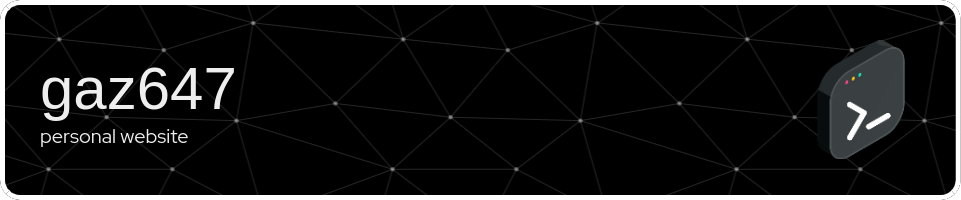
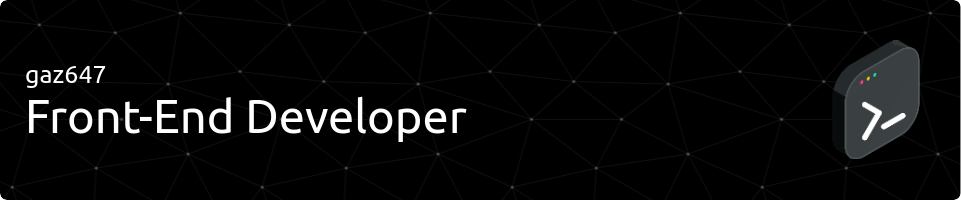
přidán readme header image

diff --git a/README.md b/README.md
@@ -1,144 +1,100 @@
-<link rel="stylesheet" type='text/css' href="https://cdn.jsdelivr.net/gh/devicons/devicon@latest/devicon.min.css" />
-<link rel="stylesheet" href="https://fonts.googleapis.com/css2?family=Material+Symbols+Outlined:opsz,wght,FILL,GRAD@24,400,0,0" />
+<img src="src/images/github-header-image.png">
 
-<div style="width: 100%; margin: 0 auto; background-color: black; border-radius: 10px; display: flex; flex-direction: column; justify-content: center;">
-    <!--  -->
-    <div style="padding: 3rem 3rem 3rem 1.5rem; border: solid 2px rgba(79, 79, 79, .3); border-radius: 20px; max-width: 80%; margin: 1.5rem">
-        <div style="font-size: 2rem;">gaz647</div>
-        <div style="font-size: 4rem;">Front-End Developer</div>
-        <div style="display: flex; flex-direction: row; align-items: center;">
-            <img src="src/images//heart.svg" style="display: inline; color: red; height: 2rem; width: 2rem; margin-right: .7rem;" />
-            <div style="font-size: 2rem">web apps</div>
-        </div>
-    </div>
-    <div style="display: flex; justify-content: center">
-        <a href="https://gaz647.net/" style="display:block; font-size: 1.5rem; padding: 3rem; cursor: pointer;">www.gaz647.net</a>
-        <a href="mailto:info@gaz647.net?subject=Message%20via%20profile%20on%20Github" style="display:block; font-size: 1.5rem; padding: 3rem; cursor: pointer;">info@gaz647.net</a>
-    </div>
-    <!--  -->
-    <div style="width: 95%; height: 1px; background-color: rgba(79, 79, 79, .3); margin: 1.5rem auto "></div>
-    <!--  -->
-    <div style="display:flex; justify-content: center; flex-wrap: wrap;  padding: 1rem;">
-        <img alt="HTML5" width="50px" style="margin: .5rem" src="https://cdn.jsdelivr.net/gh/devicons/devicon@latest/icons/html5/html5-original.svg" />
-        <img alt="CSS3" width="50px" style="margin: .5rem" src="https://cdn.jsdelivr.net/gh/devicons/devicon@latest/icons/css3/css3-original.svg" />
-        <img alt="TypeScript" width="50px" style="margin: .5rem" src="https://cdn.jsdelivr.net/gh/devicons/devicon@latest/icons/typescript/typescript-original.svg" />
-        <img alt="React" width="50px" style="margin: .5rem" src="https://cdn.jsdelivr.net/gh/devicons/devicon@latest/icons/react/react-original.svg" />
-        <img alt="React-Router" width="50px" style="margin: .5rem; background-color: rgb(220, 220, 220); border-radius: 5px; padding: 0 .4rem" src="https://cdn.jsdelivr.net/gh/devicons/devicon@latest/icons/reactrouter/reactrouter-original.svg" />
-        <img alt="Redux" width="50px" style="margin: .5rem" src="https://cdn.jsdelivr.net/gh/devicons/devicon@latest/icons/redux/redux-original.svg" />
-        <img alt="Firebase" width="50px" style="margin: .5rem" src="https://cdn.jsdelivr.net/gh/devicons/devicon@latest/icons/firebase/firebase-original.svg" />
-        <img alt="Vite" width="50px" style="margin: .5rem" src="https://cdn.jsdelivr.net/gh/devicons/devicon@latest/icons/vitejs/vitejs-original.svg" />
-        <img alt="Netlify" width="50px" style="margin: .5rem" src="https://cdn.jsdelivr.net/gh/devicons/devicon@latest/icons/netlify/netlify-original.svg" />
-        <img alt="Photoshop" width="50px" style="margin: .5rem" src="https://cdn.jsdelivr.net/gh/devicons/devicon@latest/icons/photoshop/photoshop-original.svg" />
-        <img alt="Linux" width="50px" style="margin: .5rem" src="https://cdn.jsdelivr.net/gh/devicons/devicon@latest/icons/linux/linux-original.svg" />
-        <img alt="Apple" width="35px" style="margin: .5rem; background-color: rgb(234, 220, 234); border-radius: 5px; padding: 0 .5rem" src="https://cdn.jsdelivr.net/gh/devicons/devicon@latest/icons/apple/apple-original.svg" />
-    </div>
-    <!--  -->
-    <div style="width: 95%; height: 1px; background-color: rgba(79, 79, 79, .3); margin: 1.5rem auto "></div>
-    <!--  -->
-    <!-- <a style="diplay: block; font-size: 2rem; padding: 5rem 0; cursor: pointer;" align="center">www.gaz647.net</a> -->
-    <!--  -->
-    <div style="padding: 3rem; font-size: 2.5rem">My projects:</div>
-    <!--  -->
-    <div style="display: flex; justify-content: center; align-items: center flex-wrap: wrap; margin-bottom: 5rem">
-        <img style="padding: 2rem; max-width: 200px;" src="src/images/mockup-emtruck-v2.0-w-800-px.png" />
-        <div style="display: flex; flex-direction: column; align-items: center; justify-content: space-evenly">
-            <div style="font-size: 1.5rem; font-weight: bold">emTruck v2.0</div>
-            <img style="width: 12rem" src="https://wakatime.com/badge/user/0042881c-6061-4165-a38d-5958bd6d02bc/project/1a883016-572f-4180-8581-73d1b8c50428.svg"/>
-            <div style="display: flex; align-items: center">
-                <img alt="React" width="25px" style="margin: .5rem" src="https://cdn.jsdelivr.net/gh/devicons/devicon@latest/icons/react/react-original.svg" />
-                <a href="https://github.com/gaz647/emTRUCK" target="_blank" style="margin-bottom: -4px; display: inline-block; text-decoration: none; color: whitesmoke; cursor: pointer">
-                    <i style="font-size: 25px; margin: .5rem" class="devicon-github-original"></i>
-                </a>
-                <a href="https://emtruck.net/" target="_blank" style="margin-bottom: -2px; text-decoration: none; color: whitesmoke; cursor: pointer;">
-                    <span style="font-size: 30px; margin: .5rem;" class="material-symbols-outlined">link</span>
-                </a>
-            </div>
-        </div>
-    </div>
-    <!--  -->
-    <div style="display: flex; justify-content: center; align-items: center flex-wrap: wrap; margin-bottom: 5rem">
-        <img style="padding: 2rem; max-width: 200px;" src="src/images/mockup-tatova-pila-w-800-px.png" />
-        <div style="display: flex; flex-direction: column; align-items: center; justify-content: space-evenly">
-            <div style="font-size: 1.5rem; font-weight: bold">Tátova Pila</div>
-            <img style="width: 12rem" src="https://wakatime.com/badge/user/0042881c-6061-4165-a38d-5958bd6d02bc/project/018c1b57-9fb4-4879-8e56-75f570716b1f.svg"/>
-            <div style="display: flex; align-items: center">
-                <img alt="React" width="25px" style="margin: .5rem" src="https://cdn.jsdelivr.net/gh/devicons/devicon@latest/icons/react/react-original.svg" />
-                <a href="https://github.com/gaz647/tatova-pila_ts" target="_blank" style="margin-bottom: -4px; display: inline-block; text-decoration: none; color: whitesmoke; cursor: pointer">
-                    <i style="font-size: 25px; margin: .5rem" class="devicon-github-original"></i>
-                </a>
-                <a href="https://tatovapila.cz/" target="_blank" style="margin-bottom: -2px; text-decoration: none; color: whitesmoke; cursor: pointer;">
-                    <span style="font-size: 30px; margin: .5rem;" class="material-symbols-outlined">link</span>
-                </a>
-            </div>
-        </div>
-    </div>
-    <!--  -->
-    <div style="display: flex; justify-content: center; align-items: center flex-wrap: wrap; margin-bottom: 5rem">
-        <img style="padding: 2rem; max-width: 200px;" src="src/images/mockup-gaz647-w-800-px.png" />
-        <div style="display: flex; flex-direction: column; align-items: center; justify-content: space-evenly">
-            <div style="font-size: 1.5rem; font-weight: bold">gaz647</div>
-            <img style="width: 12rem" src="https://wakatime.com/badge/user/0042881c-6061-4165-a38d-5958bd6d02bc/project/018cf290-0b79-4c55-bc8a-0d1a7a4b578c.svg"/>
-            <div style="display: flex; align-items: center">
-                <img alt="React" width="25px" style="margin: .5rem" src="https://cdn.jsdelivr.net/gh/devicons/devicon@latest/icons/react/react-original.svg" />
-                <a href="https://github.com/gaz647/gaz647" target="_blank" style="margin-bottom: -4px; display: inline-block; text-decoration: none; color: whitesmoke; cursor: pointer">
-                    <i style="font-size: 25px; margin: .5rem" class="devicon-github-original"></i>
-                </a>
-                <a href="https://gaz647.net/" target="_blank" style="margin-bottom: -2px; text-decoration: none; color: whitesmoke; cursor: pointer;">
-                    <span style="font-size: 30px; margin: .5rem;" class="material-symbols-outlined">link</span>
-                </a>
-            </div>
-        </div>
-    </div>
-    <!--  -->
-    <div style="display: flex; justify-content: center; align-items: center flex-wrap: wrap; margin-bottom: 5rem">
-        <img style="padding: 2rem; max-width: 200px;" src="src/images/mockup-beneeto-hours-w-800-px.png" />
-        <div style="display: flex; flex-direction: column; align-items: center; justify-content: space-evenly">
-            <div style="font-size: 1.5rem; font-weight: bold">Beneeto Hours</div>
-            <img style="width: 12rem" src="https://wakatime.com/badge/user/0042881c-6061-4165-a38d-5958bd6d02bc/project/bf2c22ad-f6b8-4f77-b86d-e9a72a65905b.svg"/>
-            <div style="display: flex; align-items: center">
-                <img alt="React" width="25px" style="margin: .5rem" src="https://cdn.jsdelivr.net/gh/devicons/devicon@latest/icons/react/react-original.svg" />
-                <a href="https://github.com/gaz647/beneeto-hours_ts" target="_blank" style="margin-bottom: -4px; display: inline-block; text-decoration: none; color: whitesmoke; cursor: pointer">
-                    <i style="font-size: 25px; margin: .5rem" class="devicon-github-original"></i>
-                </a>
-                <a href="https://beneeto-hours.netlify.app" target="_blank" style="margin-bottom: -2px; text-decoration: none; color: whitesmoke; cursor: pointer;">
-                    <span style="font-size: 30px; margin: .5rem;" class="material-symbols-outlined">link</span>
-                </a>
-            </div>
-        </div>
-    </div>
-    <!--  -->
-    <div style="display: flex; justify-content: center; align-items: center flex-wrap: wrap; margin-bottom: 5rem">
-        <img style="padding: 2rem; max-width: 200px;" src="src/images/mockup-oktagon-schedule-w-800-px.png" />
-        <div style="display: flex; flex-direction: column; align-items: center; justify-content: space-evenly">
-            <div style="font-size: 1.5rem; font-weight: bold">Oktagon Schedule</div>
-            <img style="width: 12rem" src="https://wakatime.com/badge/user/0042881c-6061-4165-a38d-5958bd6d02bc/project/124c0e6a-9248-4c01-bf48-1c49b325afe3.svg"/>
-            <div style="display: flex; align-items: center">
-                <img alt="React" width="25px" style="margin: .5rem" src="https://cdn.jsdelivr.net/gh/devicons/devicon@latest/icons/react/react-original.svg" />
-                <a href="https://github.com/gaz647/oktagon-schedule-ts" target="_blank" style="margin-bottom: -4px; display: inline-block; text-decoration: none; color: whitesmoke; cursor: pointer">
-                    <i style="font-size: 25px; margin: .5rem" class="devicon-github-original"></i>
-                </a>
-                <a href="https://fancy-narwhal-e5080d.netlify.app/" target="_blank" style="margin-bottom: -2px; text-decoration: none; color: whitesmoke; cursor: pointer;">
-                    <span style="font-size: 30px; margin: .5rem;" class="material-symbols-outlined">link</span>
-                </a>
-            </div>
-        </div>
-    </div>
-    <!--  -->
-    <div style="display: flex; justify-content: center; align-items: center flex-wrap: wrap; margin-bottom: 5rem">
-        <img style="padding: 2rem; max-width: 200px;" src="src/images/mockup-emtruck-v1.0-w-800-px.png" />
-        <div style="display: flex; flex-direction: column; align-items: center; justify-content: space-evenly">
-            <div style="font-size: 1.5rem; font-weight: bold">emTruck v1.0</div>
-            <img style="width: 12rem" src="https://wakatime.com/badge/user/0042881c-6061-4165-a38d-5958bd6d02bc/project/925b101f-155e-4ecb-ada0-5c21ec73df5e.svg"/>
-            <div style="display: flex; align-items: center">
-                <img alt="React" width="25px" style="margin: .5rem" src="https://cdn.jsdelivr.net/gh/devicons/devicon@latest/icons/react/react-original.svg" />
-                <a href="https://github.com/gaz647/emTRUCK_VUE" target="_blank" style="margin-bottom: -4px; display: inline-block; text-decoration: none; color: whitesmoke; cursor: pointer">
-                    <i style="font-size: 25px; margin: .5rem" class="devicon-github-original"></i>
-                </a>
-                <a href="https://emtruck-v1.netlify.app/" target="_blank" style="margin-bottom: -2px; text-decoration: none; color: whitesmoke; cursor: pointer;">
-                    <span style="font-size: 30px; margin: .5rem;" class="material-symbols-outlined">link</span>
-                </a>
-            </div>
-        </div>
-    </div>
-    <!--  -->
-</div>
+<a href="https://gaz647.net/" style="display:block; font-size: 1.5rem; padding: 3rem; cursor: pointer;">www.gaz647.net</a>
+<a href="mailto:info@gaz647.net?subject=Message%20via%20profile%20on%20Github" style="display:block; font-size: 1.5rem; padding: 3rem; cursor: pointer;">info@gaz647.net</a>
+
+<img align="left" alt="HTML5" width="50px" style="margin: .5rem" src="https://cdn.jsdelivr.net/gh/devicons/devicon@latest/icons/html5/html5-original.svg" />
+<img align="left" alt="CSS3" width="50px" style="margin: .5rem" src="https://cdn.jsdelivr.net/gh/devicons/devicon@latest/icons/css3/css3-original.svg" />
+<img align="left" alt="TypeScript" width="50px" style="margin: .5rem" src="https://cdn.jsdelivr.net/gh/devicons/devicon@latest/icons/typescript/typescript-original.svg" />
+<img align="left" alt="React" width="50px" style="margin: .5rem" src="https://cdn.jsdelivr.net/gh/devicons/devicon@latest/icons/react/react-original.svg" />
+<img align="left" alt="React-Router" width="50px" style="margin: .5rem; background-color: rgb(220, 220, 220); border-radius: 5px; padding: 0 .4rem" src="https://cdn.jsdelivr.net/gh/devicons/devicon@latest/icons/reactrouter/reactrouter-original.svg" />
+<img align="left" alt="Redux" width="50px" style="margin: .5rem" src="https://cdn.jsdelivr.net/gh/devicons/devicon@latest/icons/redux/redux-original.svg" />
+<img align="left" alt="Firebase" width="50px" style="margin: .5rem" src="https://cdn.jsdelivr.net/gh/devicons/devicon@latest/icons/firebase/firebase-original.svg" />
+<img align="left" alt="Vite" width="50px" style="margin: .5rem" src="https://cdn.jsdelivr.net/gh/devicons/devicon@latest/icons/vitejs/vitejs-original.svg" />
+<img align="left" alt="Netlify" width="50px" style="margin: .5rem" src="https://cdn.jsdelivr.net/gh/devicons/devicon@latest/icons/netlify/netlify-original.svg" />
+<img align="left" alt="Photoshop" width="50px" style="margin: .5rem" src="https://cdn.jsdelivr.net/gh/devicons/devicon@latest/icons/photoshop/photoshop-original.svg" />
+<img align="left" alt="Linux" width="50px" style="margin: .5rem" src="https://cdn.jsdelivr.net/gh/devicons/devicon@latest/icons/linux/linux-original.svg" />
+<img align="left" alt="Apple" width="35px" style="margin: .5rem; background-color: rgb(234, 220, 234); border-radius: 5px; padding: 0 .5rem" src="https://cdn.jsdelivr.net/gh/devicons/devicon@latest/icons/apple/apple-original.svg" />
+
+<br>
+<br>
+
+# My projects
+
+<br>
+
+<img style="max-width: 200px;" src="src/images/mockup-emtruck-v2.0-w-800-px.png" />
+<br>
+emTruck v2.0
+<br>
+<img style="width: 12rem" src="https://wakatime.com/badge/user/0042881c-6061-4165-a38d-5958bd6d02bc/project/1a883016-572f-4180-8581-73d1b8c50428.svg"/>
+<br>
+<img alt="React" width="25px" style="margin: .5rem" src="https://cdn.jsdelivr.net/gh/devicons/devicon@latest/icons/react/react-original.svg" />
+<br>
+<a href="https://github.com/gaz647/emTRUCK" target="_blank">githbub</a>
+<br>
+<a href="https://emtruck.net/" target="_blank">emtruck.net</a>
+
+
+<img style="padding: 2rem; max-width: 200px;" src="src/images/mockup-tatova-pila-w-800-px.png" />
+<br>
+Tátova Pila
+<br>
+<img style="width: 12rem" src="https://wakatime.com/badge/user/0042881c-6061-4165-a38d-5958bd6d02bc/project/018c1b57-9fb4-4879-8e56-75f570716b1f.svg"/>
+<br>
+<img alt="React" width="25px" style="margin: .5rem" src="https://cdn.jsdelivr.net/gh/devicons/devicon@latest/icons/react/react-original.svg" />
+<br>
+<a href="https://github.com/gaz647/tatova-pila_ts" target="_blank">repo</a>
+<br>
+<a href="https://tatovapila.cz/" target="_blank">url</a>
+
+<img style="padding: 2rem; max-width: 200px;" src="src/images/mockup-gaz647-w-800-px.png" />
+<br>
+gaz647
+<br>
+<img style="width: 12rem" src="https://wakatime.com/badge/user/0042881c-6061-4165-a38d-5958bd6d02bc/project/018cf290-0b79-4c55-bc8a-0d1a7a4b578c.svg"/>
+<br>
+<img alt="React" width="25px" style="margin: .5rem" src="https://cdn.jsdelivr.net/gh/devicons/devicon@latest/icons/react/react-original.svg" />
+<br>
+<a href="https://github.com/gaz647/gaz647" target="_blank">repo</a>
+<br>
+<a href="https://gaz647.net/" target="_blank">url</a>
+<br>
+
+<img style="padding: 2rem; max-width: 200px;" src="src/images/mockup-beneeto-hours-w-800-px.png" />
+<br>
+Beneeto Hours
+<br>
+<img style="width: 12rem" src="https://wakatime.com/badge/user/0042881c-6061-4165-a38d-5958bd6d02bc/project/bf2c22ad-f6b8-4f77-b86d-e9a72a65905b.svg"/>
+<br>
+<img alt="React" width="25px" style="margin: .5rem" src="https://cdn.jsdelivr.net/gh/devicons/devicon@latest/icons/react/react-original.svg" />
+<br>
+<a href="https://github.com/gaz647/beneeto-hours_ts" target="_blank">repo</a>
+<br>
+<a href="https://beneeto-hours.netlify.app" target="_blank">url</a>
+<br>
+
+<img style="padding: 2rem; max-width: 200px;" src="src/images/mockup-oktagon-schedule-w-800-px.png" />
+<br>
+Oktagon Schedule
+<br>
+<img style="width: 12rem" src="https://wakatime.com/badge/user/0042881c-6061-4165-a38d-5958bd6d02bc/project/124c0e6a-9248-4c01-bf48-1c49b325afe3.svg"/>
+<br>
+<img alt="React" width="25px" style="margin: .5rem" src="https://cdn.jsdelivr.net/gh/devicons/devicon@latest/icons/react/react-original.svg" />
+<br>
+<a href="https://github.com/gaz647/oktagon-schedule-ts" target="_blank">repo</a>
+<br>
+<a href="https://fancy-narwhal-e5080d.netlify.app/" target="_blank">url</a>
+<br>
+
+<img style="padding: 2rem; max-width: 200px;" src="src/images/mockup-emtruck-v1.0-w-800-px.png" />
+<br>
+emTruck v1.0
+<br>
+<img style="width: 12rem" src="https://wakatime.com/badge/user/0042881c-6061-4165-a38d-5958bd6d02bc/project/925b101f-155e-4ecb-ada0-5c21ec73df5e.svg"/>
+<br>
+<img alt="React" width="25px" style="margin: .5rem" src="https://cdn.jsdelivr.net/gh/devicons/devicon@latest/icons/react/react-original.svg" />
+<br>
+<a href="https://github.com/gaz647/emTRUCK_VUE" target="_blank">repo</a>
+<br>
+<a href="https://emtruck-v1.netlify.app/" target="_blank">url</a>
